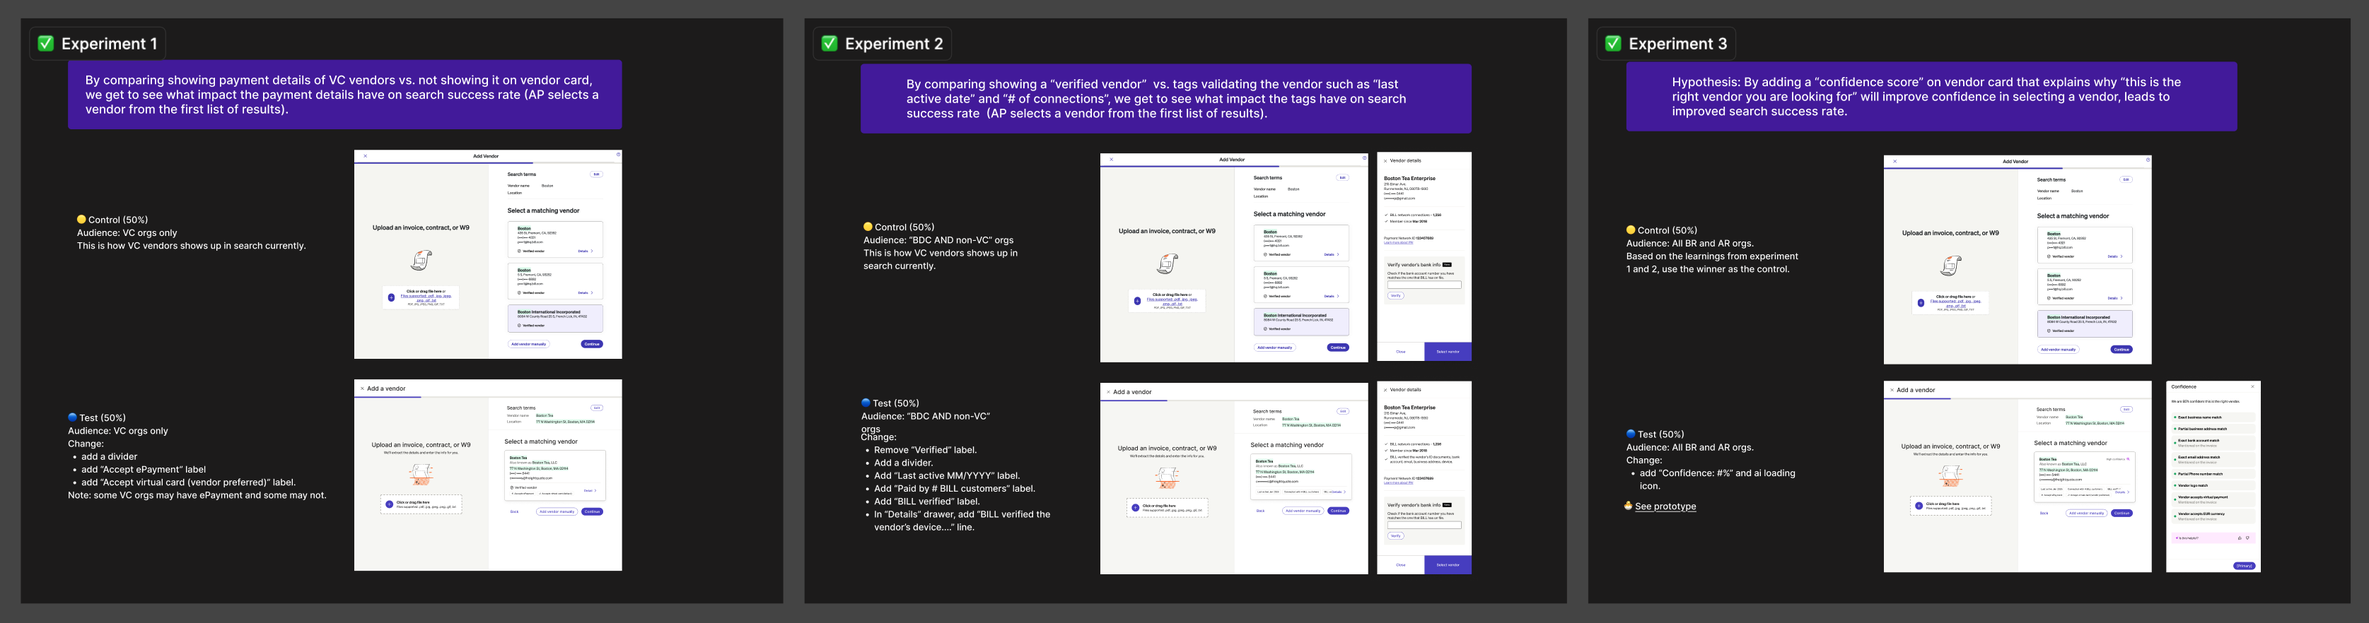
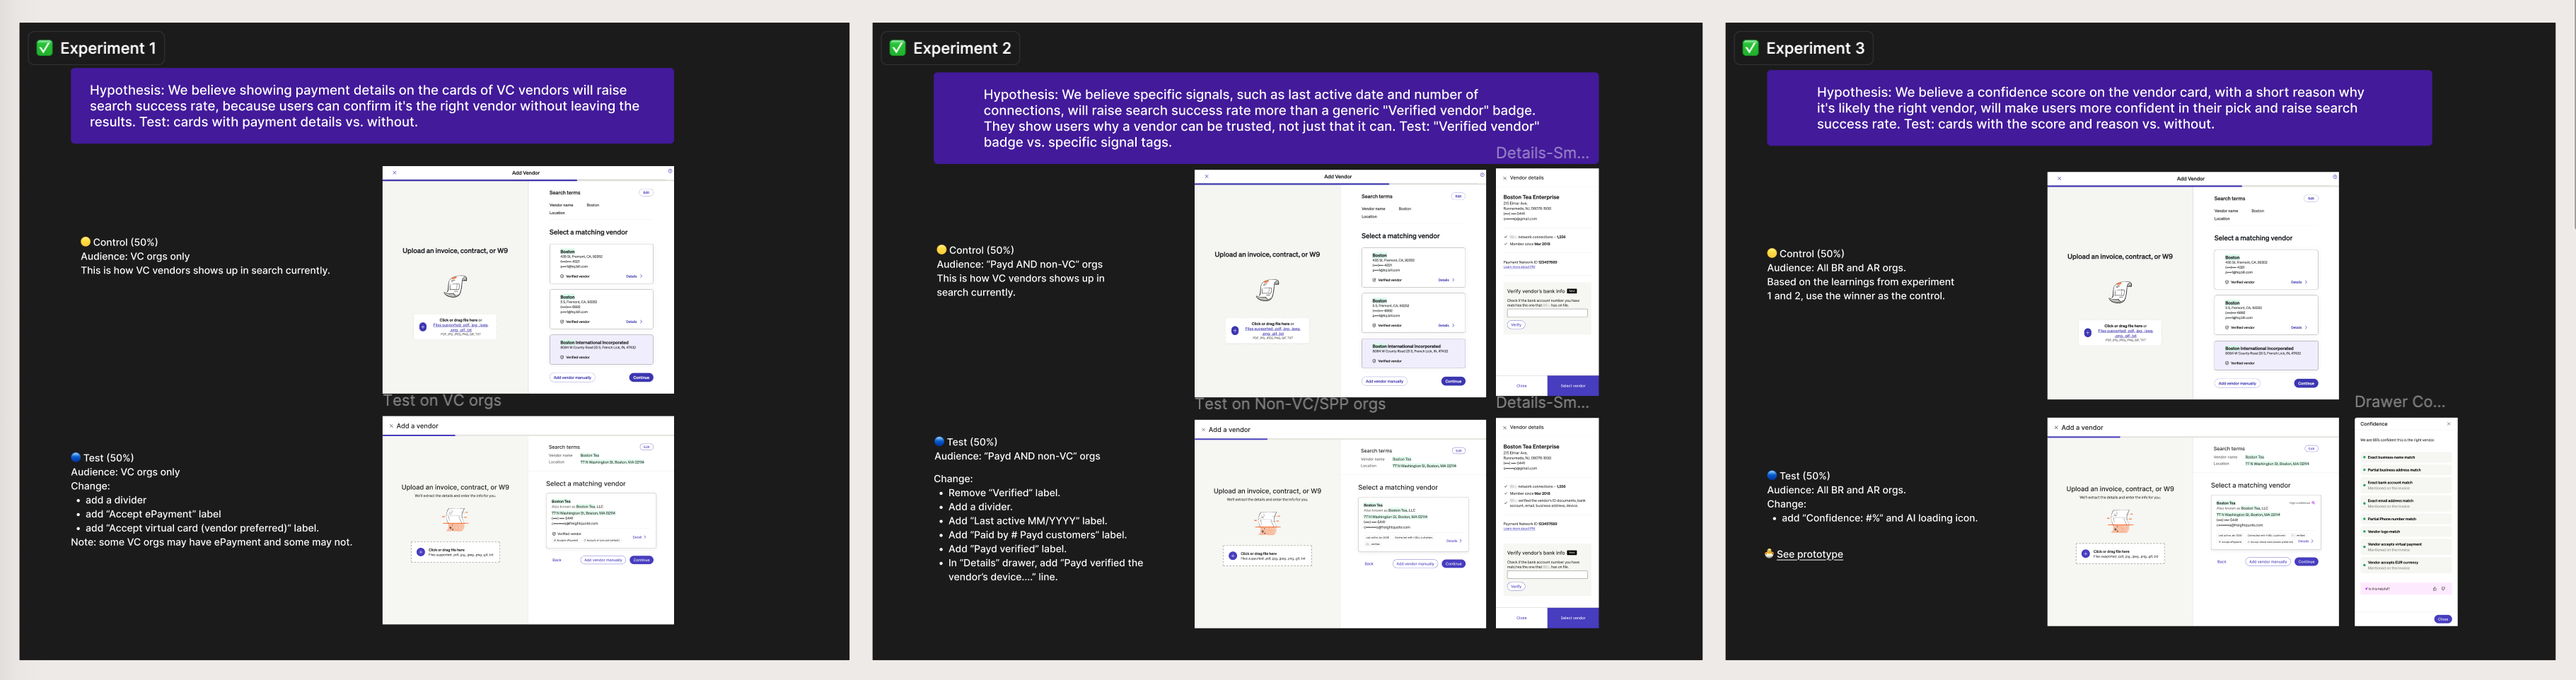
Trust in search: update context, experiment hypotheses and experiments image
- Section 01: plain-language search success rate definition, bold framing question
- Section 05: three experiment hypotheses as a numbered list; open questions removed
- Updated experiments.png (anonymized)
- Ordered lists share unordered-list indent; style.css v=95

diff --git a/work/trust-in-search.html b/work/trust-in-search.html
@@ -6,7 +6,7 @@
   <meta name="viewport" content="width=device-width, initial-scale=1">
   <title>Trust in “Who am I paying?” — Lulu Wang</title>
   <meta name="description" content="AI-assisted vendor identity matching.">
-  <link rel="stylesheet" href="../assets/style.css?v=94">
+  <link rel="stylesheet" href="../assets/style.css?v=95">
   <link rel="preconnect" href="https://fonts.googleapis.com">
   <link rel="preconnect" href="https://fonts.gstatic.com" crossorigin>
   <link href="https://fonts.googleapis.com/css2?family=Inter:opsz,wght@14..32,100..900&display=swap" rel="stylesheet">
@@ -101,9 +101,9 @@
       <h2><span class="sec-num">01</span>Context &amp; Problem</h2>
       <p>The users are Accounts Payable (AP) specialists, bookkeepers, and finance staff who pay vendors on a recurring
         basis. When AP users add a new vendor, they struggle to trust the entities shown in network search, forcing
-        manual verification and delayed first payment. This leads to low search success rate, which is defined as number
-        of search sessions yielding selection / total number of search sessions. What must the card communicate and
-        which signals earn trust?</p>
+        manual verification and delayed first payment. This leads to low search success rate, which is defined as the
+        share of searches where the person paying bills (the AP clerk) picks a vendor from the first page of results.
+        <strong>What must the vendor card communicate and which signals earn trust?</strong></p>
     </section>
 
     <section class="cs-section">
@@ -247,25 +247,29 @@
       <h2><span class="sec-num">05</span>Experiments Launched &amp; Next Steps</h2>
       <p>Unfortunately, this project was cut short before we could launch an A/B test with the legacy vendor add flow. We
         ended up launching 3 incremental experiments on the legacy experience to validate the direction.</p>
+      <ol>
+        <li><strong>Payment details</strong>. Hypothesis: We believe showing payment details on the cards of VC vendors
+          will raise search success rate, because users can confirm it's the right vendor without leaving the results.
+          Test: cards with payment details vs. without.</li>
+        <li><strong>Specific trust signals vs. a generic badge</strong>. Hypothesis: We believe specific signals, such as
+          last active date and number of connections, will raise search success rate more than a generic “Verified
+          vendor” badge. They show users why a vendor can be trusted, not just that it can. Test: “Verified vendor”
+          badge vs. specific signal tags.</li>
+        <li><strong>Confidence score with a reason</strong>. Hypothesis: We believe a confidence score on the vendor card,
+          with a short reason why it's likely the right vendor, will make users more confident in their pick and raise
+          search success rate. Test: cards with the score and reason vs. without.</li>
+      </ol>
       <p>After the 3rd round of iteration, I referred back to our interview notes on vendor validation workflow, and
         confirmed with users that 1. To avoid paying to the wrong bank, they will ask the vendor to provide payment
         method info, if it is not present on the invoice already. 2. If the vendor info recently changed, they will
         update their existing record for this vendor. Based on this feedback, I plan to add an optional step for APs to
         reach out to vendors for bank info, as well as updating the last step to show the full and most updated vendor
         data, reduce anxiety on what has changed.</p>
-      <p>Open questions to carry forward:</p>
-      <ul>
-        <li>What's the clearest way to express “connections” so it's universally understood, not just by power users?</li>
-        <li>How do we present virtual card so it builds confidence for users who've never used it?</li>
-        <li>Which freshness signal (“added date”, “last active”, vendor-update prompt) most improves trust without adding
-          clutter?</li>
-        <li>How do we serve individual contractors, who don't search well by company name today?</li>
-      </ul>
 
       <figure class="cs-figure cs-figure--bleed">
-        <img src="../assets/img/Trust in search/experiments.png"
+        <img src="../assets/img/Trust in search/experiments.png?v=3"
           alt="The three incremental experiments run on the legacy add-vendor flow, each with its hypothesis, control and test variants."
-          width="3350" height="882">
+          width="3642" height="962">
       </figure>
     </section>
 

diff --git a/work/supplier-onboarding-agent.html b/work/supplier-onboarding-agent.html
@@ -7,7 +7,7 @@
   <title>Supplier Onboarding — Lulu Wang</title>
   <meta name="description"
     content="Rethinking the password wall: showing suppliers the payment first and deferring account creation until after value is delivered.">
-  <link rel="stylesheet" href="../assets/style.css?v=94">
+  <link rel="stylesheet" href="../assets/style.css?v=95">
   <link rel="preconnect" href="https://fonts.googleapis.com">
   <link rel="preconnect" href="https://fonts.gstatic.com" crossorigin>
   <link href="https://fonts.googleapis.com/css2?family=Inter:opsz,wght@14..32,100..900&display=swap" rel="stylesheet">

diff --git a/work/in-product-sales-connect.html b/work/in-product-sales-connect.html
@@ -7,7 +7,7 @@
   <title>In-Product Sales Connect — Lulu Wang</title>
   <meta name="description"
     content="Building a path from self-onboarding to human help when the quarter could not wait.">
-  <link rel="stylesheet" href="../assets/style.css?v=94">
+  <link rel="stylesheet" href="../assets/style.css?v=95">
   <link rel="preconnect" href="https://fonts.googleapis.com">
   <link rel="preconnect" href="https://fonts.gstatic.com" crossorigin>
   <link href="https://fonts.googleapis.com/css2?family=Inter:opsz,wght@14..32,100..900&display=swap" rel="stylesheet">

diff --git a/work/basic-ftu-redesign.html b/work/basic-ftu-redesign.html
@@ -7,7 +7,7 @@
   <title>Receiver First-Time-Use Redesign — Lulu Wang</title>
   <meta name="description"
     content="Clarifying payment status, offering best next steps, and introducing product value to new receivers after they sign up.">
-  <link rel="stylesheet" href="../assets/style.css?v=94">
+  <link rel="stylesheet" href="../assets/style.css?v=95">
   <link rel="preconnect" href="https://fonts.googleapis.com">
   <link rel="preconnect" href="https://fonts.gstatic.com" crossorigin>
   <link

diff --git a/index.html b/index.html
@@ -8,7 +8,7 @@
       name="description"
       content="Lulu Wang is a Lead Product Designer who turns research into shipped, measured product wins — onboarding, activation, and network experiences in B2B payments."
     />
-    <link rel="stylesheet" href="assets/style.css?v=94" />
+    <link rel="stylesheet" href="assets/style.css?v=95" />
     <link rel="preconnect" href="https://fonts.googleapis.com" />
     <link rel="preconnect" href="https://fonts.gstatic.com" crossorigin />
     <link

diff --git a/assets/style.css b/assets/style.css
@@ -2059,7 +2059,8 @@ a:hover {
   color: var(--n900);
 }
 
-.cs-main ul {
+.cs-main ul,
+.cs-main ol {
   margin: 0 0 18px;
   padding-left: 22px;
 }
